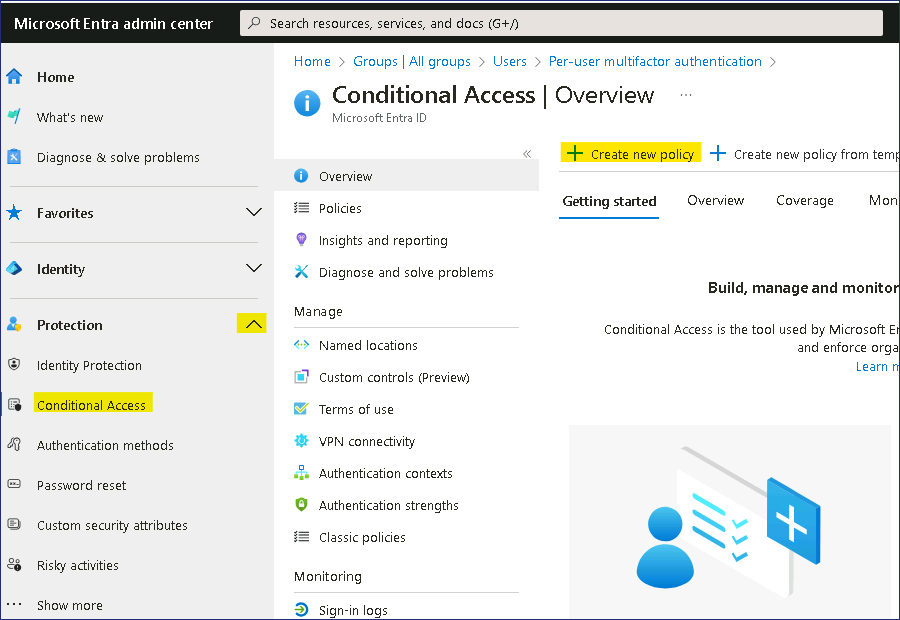
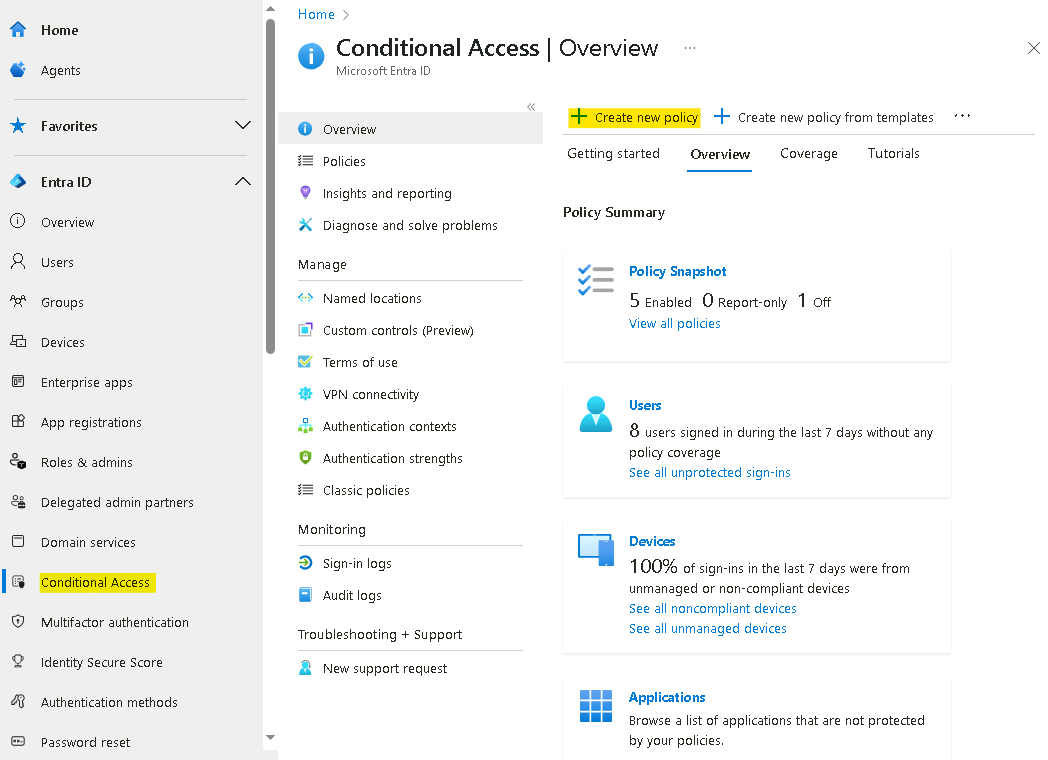
Lab 1 and Lab 2 updates

diff --git a/Lab 1 – Setting up your Microsoft Entra tenant/Lab 1 – Setting up your Microsoft Entra tenant.md b/Lab 1 – Setting up your Microsoft Entra tenant/Lab 1 – Setting up your Microsoft Entra tenant.md
@@ -12,101 +12,7 @@ by this new custom domain and then integrate a single AD forest using
 Password Hash Sync (PHS). We will also enable MFS and add basic
 conditional access policy.
 
-## Exercise 1 – Prerequisites
-
-### Task 1 – Redeem the Azure Pass
-
-1. Log into the **LON-CL1** with the credentials provided on the **Home/Resources** tab.
-
-2. **Note down the Office 365 Tenant Credentials** and the **Promo
-    Code** provided on the **Home/Resources** tab of your lab
-    environment.
-
-3. Open a browser on the Lab VM and navigate to `http://www.microsoftazurepass.com`. Click
-    the **Start** button.
-
-     ![A person sitting on a couch using a computer Description
- automatically generated](./media/image1.png)
-
-    <font color=red>
-
-    > **Note**: Do not use your **Personal/Company/Work Account** to login to redeem the Azure Pass, only redeem the Azure Pass using the **Office 365 Tenant provided** [having the required **Licenses** for Labs] on the **Home/Resources** tab of the Lab interface.
-    
-    </font>
-    
-    <font color=darkred>
-    
-    > **Another Azure Pass will not be issued, if you have redeemed the Azure Pass on Personal/Company/Work Account**.
-
-    </font>
-
-4. Enter the **Office 365 tenant credentials** given on the Resources
-    page of your lab environment and select "**Sign In**".
-
-5. Click "**Confirm Microsoft Account**" if the email address is
-    correct.
-
-     ![A screenshot of a computer Description automatically
- generated](./media/image2.png)
-
-6. Paste the promo code given on the **Home/Resources** page of your lab
-    environment in the **Enter Promo code box,** enter the captcha and
-    select **Submit** button.
-
-     ![A screenshot of a computer Description automatically
- generated](./media/image3.png)
-
-7. If asked login with your tenant credentials again. It may take few
-    seconds to process the redemption.
-
-8. Enter the mandatory profile information. Select the check box – **I
-    agree to the subscription agreement, offer details.**, and then
-    select **Sign up**.
-
-    > **Note** - Choose any other Last name instead of **Administrator** to avoid error.
-
-
-     ![A screenshot of a computer Description automatically
- generated](./media/image4.png)
-
-9. On the Protect your account prompt, click on **the** Next button
-
-    ![A screenshot of a computer error Description automatically
-    generated](./media/image5.png)
-
-10. Click on the **Next** button on the **More information required**
-    prompt.
-
-    ![Graphical user interface, application Description automatically
-    generated](./media/image6.png)
-
-11. Provide the credentials and then complete the MFA sign in
-
-    ![Graphical user interface, text, application, email Description
-    automatically generated](./media/image7.png)
-
-    ![Graphical user interface, text, application, email Description
-    automatically generated](./media/image8.png)
-
-12. Once the authentication is completed you will be redirected to the
-    Azure Pass redemption page.
-
-13. Wait for the account setup to complete and then click on **submit**
-    button.
-
-    ![A screenshot of a computer Description automatically
-    generated](./media/image9.png)
-
-14. It would automatically redirect you to the **Azure Portal** and now
-    you are ready to use Azure services.
-
-15. Click on **Subscriptions** to verify that your new subscription is
-    listed in the list of active subscriptions.
-
-    ![A screenshot of a computer Description automatically
-generated](./media/image10.png)
-
-## Exercise 2 – Integrate a single AD forest using Password Hash Sync (PHS)
+## Exercise 1 – Integrate a single AD forest using Password Hash Sync (PHS)
 
 ### Task 1 – Install Azure AD Connect
 
@@ -147,81 +53,18 @@ can:
     ![](./media/image11c.png)
 
 
-4. Restart the **LON-DC1** and login again
+1.  Open a browser and navigate to the URL — `https://entra.microsoft.com/#view/Microsoft_AAD_Connect_Provisioning/AADConnectMenuBlade/~/GetStarted` sign in using Office 365 Tenant admin credentials from the Home/Resource tab.
 
-5. Sign in with the username and the password given in the **Home/Resources** tab of
-    your environment.
-
-6. Open a browser and navigate to
-    `https://entra.microsoft.com` and login using the admin
-    tenant credentials.
-
-    ![](./media/image11a.png)
-
-7. In the **Microsoft Entra admin center** navigate to **Identity**
-    then expand **Users**, click **All Users** then click on **New
-    User** then click on **Create new user**.
-
-    ![](./media/image11.png)
-
-8. Enter the following information under **Basics**:
-
-    * **User principal name**: `meconnect`
-
-    * **Display name**: `MEConnect`
-  
-    * **First name**: Blank
-
-    * **Last name**: Blank
-
-    * **Password**: uncheck Auto-generate password and provide
-    `Pa$$.w0rd@MS01`
-
-    ![](./media/image12.png)
-
-9.  Under **Properties**, scroll down and select **United States** as **Usage location**.
-
-    ![](./media/image13.png)
-
-10. Under **Assignment** tab, select **Add role**.
-
-    ![A screenshot of a computer Description automatically
-generated](./media/image14.png)
-
-1. Select **Global Administrator** and click **Select**.
-
-    ![A screenshot of a computer Description automatically
-generated](./media/image15.png)
-
-1. Then select **Review + Create**.
-
-    ![](./media/image16.png)
-
-2.  Note the **User principal name** and **Password**, and then select
-    **Create**.
-
-    ![A screenshot of a computer Description automatically
-generated](./media/image17.png)
-
-1.  Open an In Private / Incognito session in your browser and login to
-    `https://entra.microsoft.com` page as the user you created i.e.
-    `meconnect` with the password `Pa$$.w0rd@MS01` that you
-    noted down in the previous step.
-
-2.  When prompted, update the password to `Pa$$.w0rd@123` then
-    select **Sign in**.
-
-    ![A screenshot of a login page Description automatically
-generated](./media/image18.png)
-
-1.  Open a browser and navigate to the URL —
-    `https://www.microsoft.com/en-us/download/details.aspx?id=47594`
-
-2.  Click **Download** and then select **Open file**.
+2.  Click on **Download Connect Sync Agent** and then click after **4 seconds** click on **Accept terms & download** button.
 
     ![A screenshot of a computer Description automatically
 generated](./media/image19.png)
 
+
+2. Click on **Open file**.
+    ![A screenshot of a computer Description automatically
+    generated](./media/image19a.png)
+    
 1.  Once installed, the **Microsoft Entra Connect Sync** configuration
     will start. select the **Terms & Conditions** check box and click
     **Continue**.
@@ -247,11 +90,11 @@ generated](./media/image22.png)
     ![A screenshot of a computer Description automatically
 generated](./media/image23.png)
 
-1.  On the Connect to Microsoft Entra ID page, provide the **Office 365 Tenant ID** and then click on the **Next** button.
+1.  On the Connect to Microsoft Entra ID page, provide the **Office 365 Tenant Admin** username and then click on the **Next** button.
 
     ![](./media/image24.png)
 
-4.  Provide the credential of the credentials of **meconnect** user with the new password - `Pa$$.w0rd@123` or the **Office 365 Tenant credentials** and then click on the **Next** button.
+4.  Provide the credential of the credentials of the **Office 365 Tenant Admin** and then click on the **Next** button.
 
     ![A screenshot of a computer Description automatically
     generated](./media/image27.png)
@@ -305,7 +148,7 @@ directory have been synchronized and now exist in Microsoft Entra ID
 tenant. To verify users are synchronized do the following.
 
 1. Switch back to the browser with the **Microsoft Entra admin center**
-    opened, then select **Identity**, expand **Users**, select **All
+    opened, then select **Entra ID**, expand **Users**, select **All
     users**.
 
     ![](./media/image35.png)
@@ -352,7 +195,7 @@ location.
 2. If prompted for credentials enter your **Office365 Tenant Credentials** provided on the **Home/Resources** tab of the lab Interface as
     show in the Image.
 
-3. Select **Identity** expand the **Groups**, select **All groups**
+3. Select **Entra ID** expand the **Groups**, select **All groups**
     then click on **New group**.
 
     ![](./media/image41.png)
@@ -477,7 +320,7 @@ generated](./media/image58.png)
     Credentials** provided on the **Home/Resources** tab** of the lab Interface as
     show in the Image.
 
-3. Select **Identity** expand **Users**, select **All Users**, the from
+3. Select **Entra ID** expand **Users**, select **All Users**, the from
     the **New user** drop-down menu select **Invite external user**.
 
     ![](./media/image64.png)
@@ -525,7 +368,7 @@ generated](./media/image58.png)
 12. Switch back to the tab with **Microsoft Entra admin center** portal
     logged with Tenant admin.
 
-13. Select **Identity** expand the **Groups**, select **All groups** then click on **New group**.
+13. Select **Entra ID** expand the **Groups**, select **All groups** then click on **New group**.
 
     ![](./media/image41.png)
 
@@ -571,7 +414,7 @@ on).
 2. If prompted for credentials enter your **Office365 Tenant Credentials** provided on the **Home/Resources** tab of the lab Interface as show in the Image.
 
 3. In the **Microsoft Entra admin center** navigate
-    to **Identity** then expand Users, click **All** **Users** then
+    to **Entra ID** then expand Users, click **All** **Users** then
     click on the ellipses **…** then select **Per-user MFA**.
 
     ![](./media/image77.png)

diff --git a/Lab 2 – Implementing Microsoft Entra Identity Protection/Lab 2 – Implementing Microsoft Entra Identity Protection.md b/Lab 2 – Implementing Microsoft Entra Identity Protection/Lab 2 – Implementing Microsoft Entra Identity Protection.md
@@ -16,8 +16,8 @@ Identity Secure Score.
 1. Sign in to the `https://entra.microsoft.com` using your
     **Office 365 tenant credentials**.
 
-1. On the lefthand menu, under **Identity**, expand **Protection**, and
-    then select **Identity protection**.
+1. On the lefthand menu, expand **ID Protection**, and
+    then select **Dashboard**.
 
     ![](./media/image1.png)
 
@@ -143,14 +143,13 @@ device type, location, and role.
 1. Browse to `https://entra.microsoft.com` and sign in using
     the **Office 365 tenant credentials**.
 
-
-
-2. On the lefthand menu, under Identity, expand Protection, and then
-    select **Conditional access**. On the **Overview (Preview)**,
+2. On the lefthand menu, under Entra ID, scroll down and 
+    select **Conditional access**. On the **Overview** page,
     click **+ Create new policy**.
 
     ![A screenshot of a computer Description automatically
 generated](./media/image19.png)
+
 
 3. On the **New Conditional Access Policy** page, provide the below
     details
@@ -245,8 +244,7 @@ as expected.
 1. Browse to `https://entra.microsoft.com` and sign in using
     the **Office 365 tenant credentials**.
 
-2. On the lefthand menu, under Identity, expand Protection, and then
-    select **Conditional access.** In the navigation pane,
+2. On the lefthand menu, under **Entra ID**, scroll down and  then select **Conditional access.** In the navigation pane,
     select **Policies**. Select **What If**.
 
     ![A screenshot of a computer Description automatically
@@ -300,8 +298,8 @@ conditional access policy that can be used to control sign in frequency.
 
 
 
-34. On the lefthand menu, under Identity, expand Protection, and then
-    select **Conditional access**. On the **Overview (Preview)**,
+34. On the lefthand menu, under **Entra ID** and then
+    select **Conditional access**. On the **Overview**,
     click **+ Create new policy**.
 
     ![A screenshot of a computer Description automatically
@@ -352,13 +350,14 @@ generated](./media/image39.png)
 
 1. Browse to `https://entra.microsoft.com` and sign in using the **Office 365 tenant credentials**.
 
-2. On the left hand menu, under **Protection,** click on **… Show more**,
-    select **Identity Secure Score.** Select **Identity Secure Score
-    from the sub-menu.** This will take you to the Identity Secure Score
+2. On the left hand menu, under **Entra ID,** scroll down and select **Identity Secure Score.** 
+
+3. If required select **Identity Secure Score** from the sub-menu. This will take you to the Identity Secure Score
     dashboard.
 
     ![A screenshot of a computer Description automatically
 generated](./media/image40.png)
+
 
 3. You may not see many recommendations but in a production environment you can view the **Improvement actions**. Sort the recommendations
     by **User impact**.
